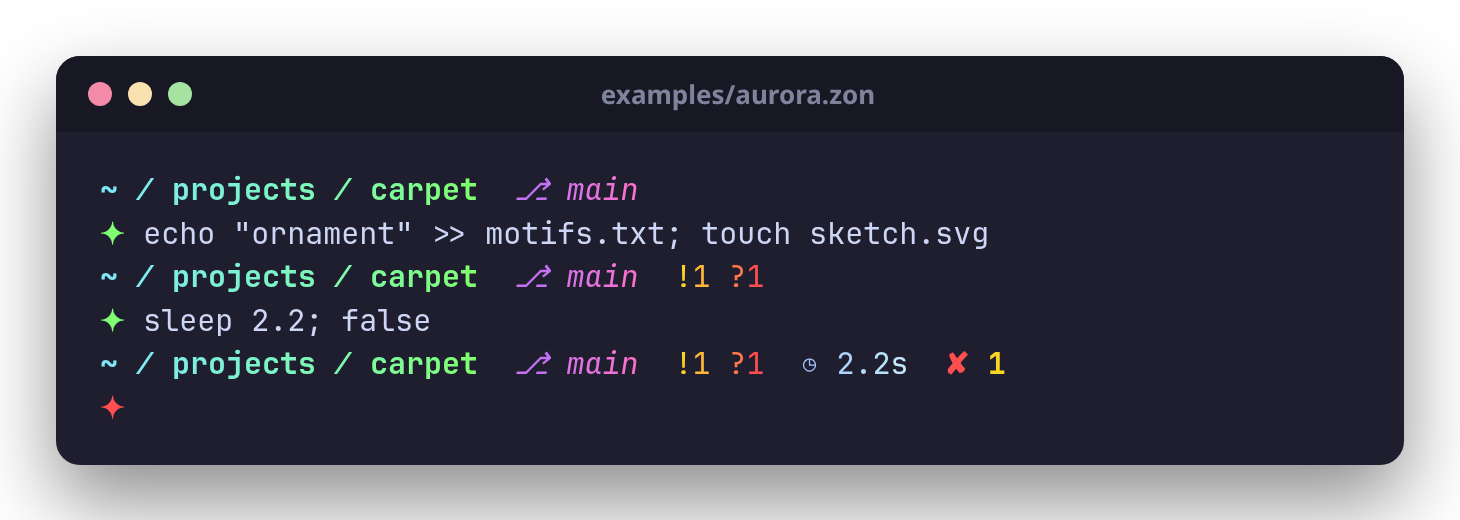
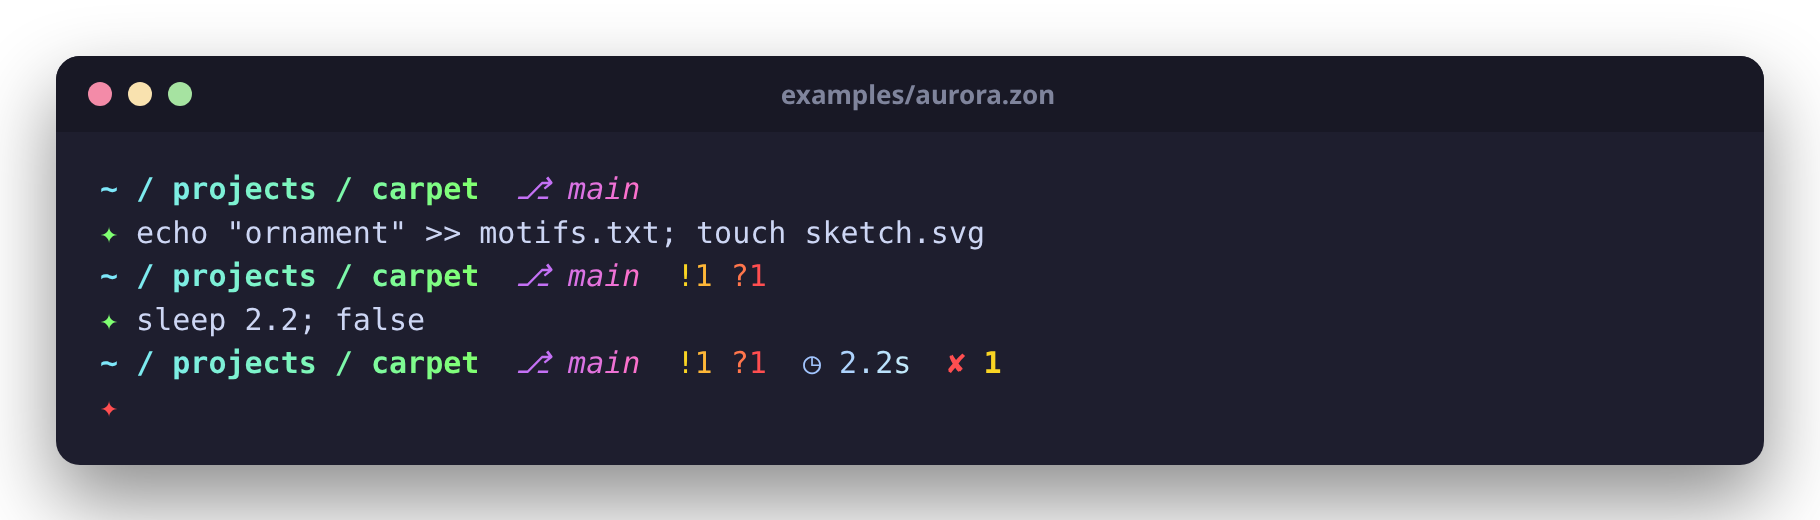
Seven new presets, and screenshots in a plain font
glitch, inferno, hypnosis, vaporwave, matrix, static and circuit. Like
the others they use standard Unicode only; they also style the language
and aws modules. The screenshots and the GIF are now rendered in DejaVu
Sans Mono, a font without Nerd Font glyphs, and demo.sh takes the preset
list from examples/presets.zig.

diff --git a/README.md b/README.md
@@ -70,7 +70,7 @@ Then add one line to your shell:
 
 ## Presets
 
-<p align="center"><img src="docs/gallery.png" alt="buta preview: the ten built-in presets in one terminal" width="760"></p>
+<p align="center"><img src="docs/gallery.png" alt="buta preview: the seventeen built-in presets in one terminal" width="760"></p>
 
 ```sh
 buta preview                  # see every preset, in your own directory
@@ -82,6 +82,10 @@ buta preset carpet --install  # use one (your old config is kept as .bak)
 | <img src="docs/preset-carpet.png" alt="carpet" width="400"><br>**carpet**: the colors of an Azerbaijani carpet | <img src="docs/preset-neon.png" alt="neon" width="400"><br>**neon**: synthwave, fading in through `░▒▓` |
 | <img src="docs/preset-acid.png" alt="acid" width="400"><br>**acid**: rainbows and flames, too much on purpose | <img src="docs/preset-pixel.png" alt="pixel" width="400"><br>**pixel**: an 8-bit handheld |
 | <img src="docs/preset-aurora.png" alt="aurora" width="400"><br>**aurora**: soft gradients, no boxes | <img src="docs/preset-bubbles.png" alt="bubbles" width="400"><br>**bubbles**: pastel pills |
+| <img src="docs/preset-glitch.png" alt="glitch" width="400"><br>**glitch**: a corrupted signal, red and cyan torn apart | <img src="docs/preset-inferno.png" alt="inferno" width="400"><br>**inferno**: on fire, from coal red to white heat |
+| <img src="docs/preset-hypnosis.png" alt="hypnosis" width="400"><br>**hypnosis**: rainbows, checkerboards and rings | <img src="docs/preset-vaporwave.png" alt="vaporwave" width="400"><br>**vaporwave**: ＡＥＳＴＨＥＴＩＣ |
+| <img src="docs/preset-matrix.png" alt="matrix" width="400"><br>**matrix**: green phosphor and braille rain | <img src="docs/preset-static.png" alt="static" width="400"><br>**static**: a dead channel, still recording |
+| <img src="docs/preset-circuit.png" alt="circuit" width="400"><br>**circuit**: copper traces and solder pads | |
 
 Also `tokyo-night`, `two-line`, `minimal` and `ascii`. Their sources are
 in [`examples/`](examples).
